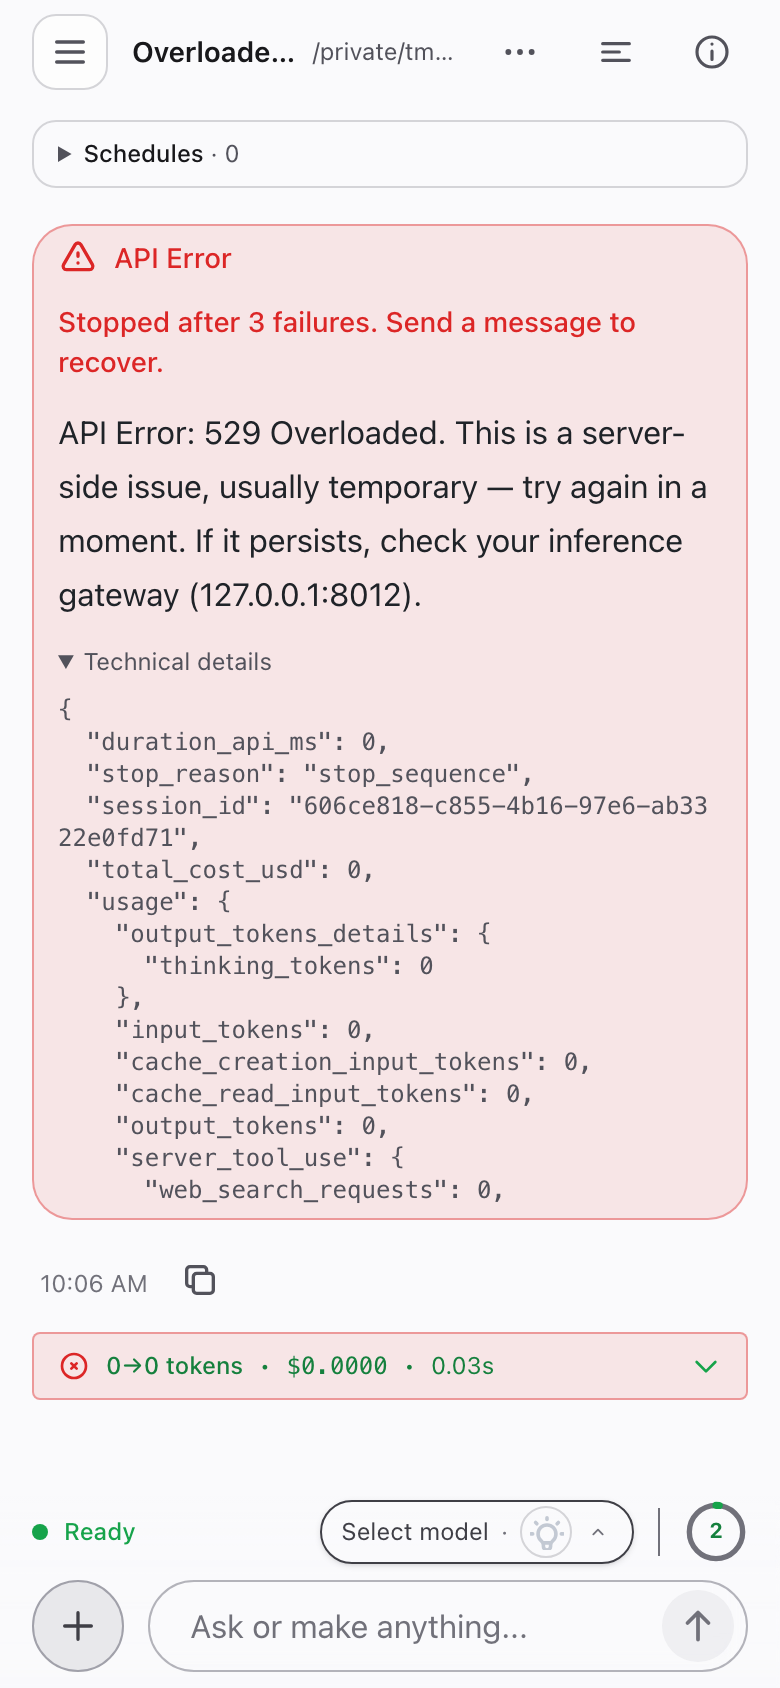
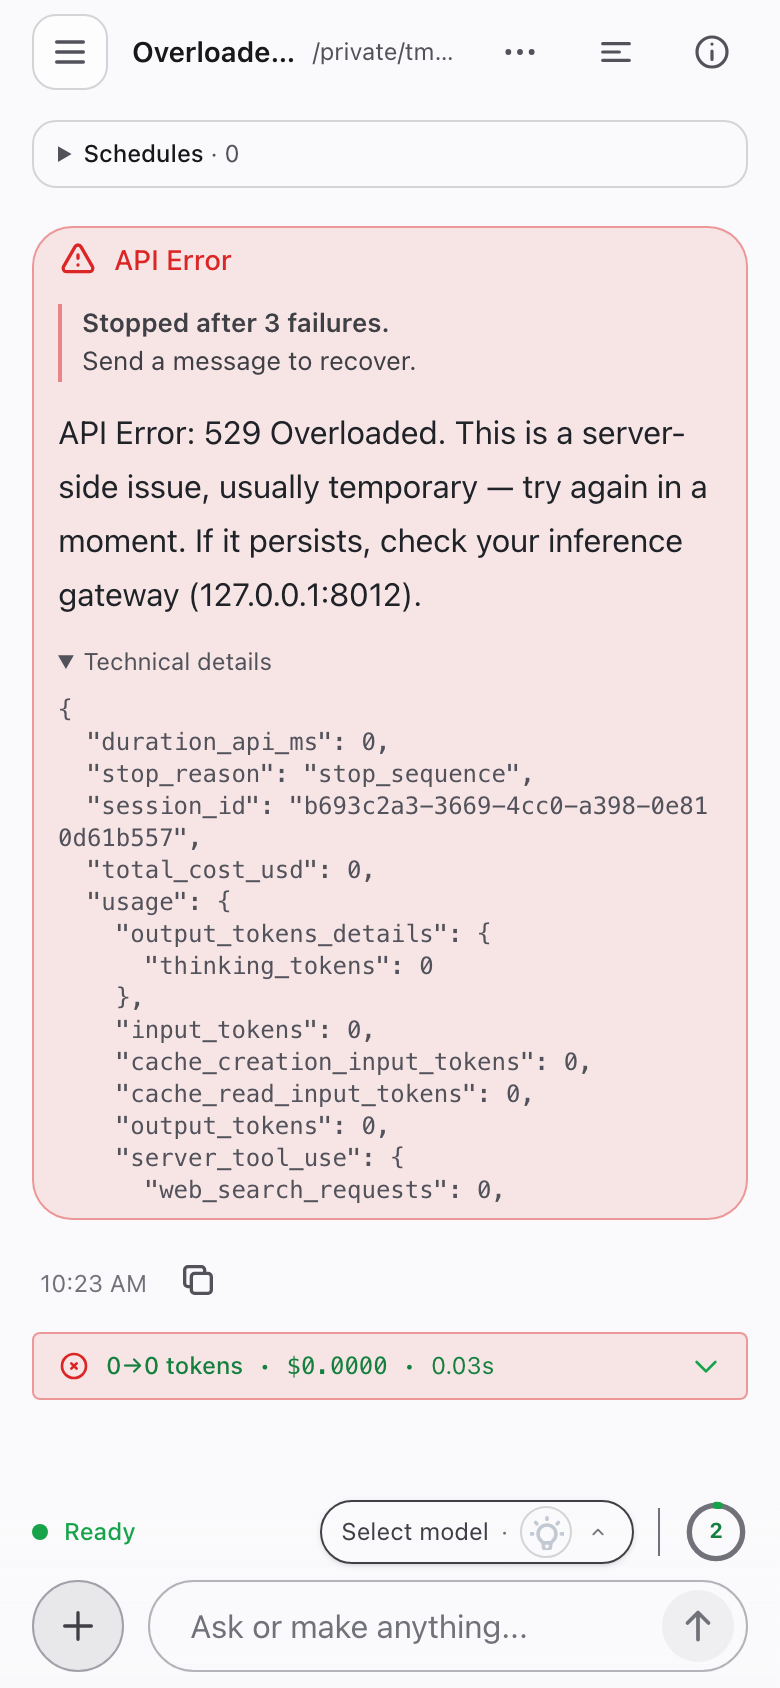
fix: style the stop line as the mock's quiet note
The approved mock shows the stop line in soft text with a thin red rule,
not in red, so it reads as context for the API error below it.

Agent: claude-opus-5-5 (effort: medium) via Claude

diff --git a/packages/web/src/components/sdk/__tests__/SDKAssistantMessage.test.tsx b/packages/web/src/components/sdk/__tests__/SDKAssistantMessage.test.tsx
@@ -493,14 +493,16 @@ describe('SDKAssistantMessage', () => {
 
     it('shows a stopped failure episode inside the card with its raw error collapsed', () => {
       const message = createErrorMessage();
-      const { container, getByText } = render(
+      const { container } = render(
         <SDKAssistantMessage
           message={message}
           stopped={{ id: 'e', failures: 3, retryAt: 0, error: '{"status":529}', failed: true }}
         />
       );
 
-      getByText('Stopped after 3 failures. Send a message to recover.');
+      expect(container.textContent).toContain(
+        'Stopped after 3 failures. Send a message to recover.'
+      );
       const details = container.querySelector('details');
       expect(details?.open).toBe(false);
       expect(details?.querySelector('summary')?.textContent).toBe('Technical details');

diff --git a/packages/web/src/components/sdk/SDKAssistantMessage.tsx b/packages/web/src/components/sdk/SDKAssistantMessage.tsx
@@ -170,8 +170,9 @@ export function SDKAssistantMessage({
           </div>
         )}
         {hasError && stopped && (
-          <p class="text-sm font-medium text-danger">
-            Stopped after {stopped.failures} failures. Send a message to recover.
+          <p class="border-l-2 border-danger/50 pl-2.5 text-[13px] leading-normal text-fg-soft">
+            <strong class="font-semibold">Stopped after {stopped.failures} failures.</strong> <br />
+            Send a message to recover.
           </p>
         )}
         {textBlocks.map((block: Extract<ContentBlock, { type: 'text' }>, idx: number) => (
